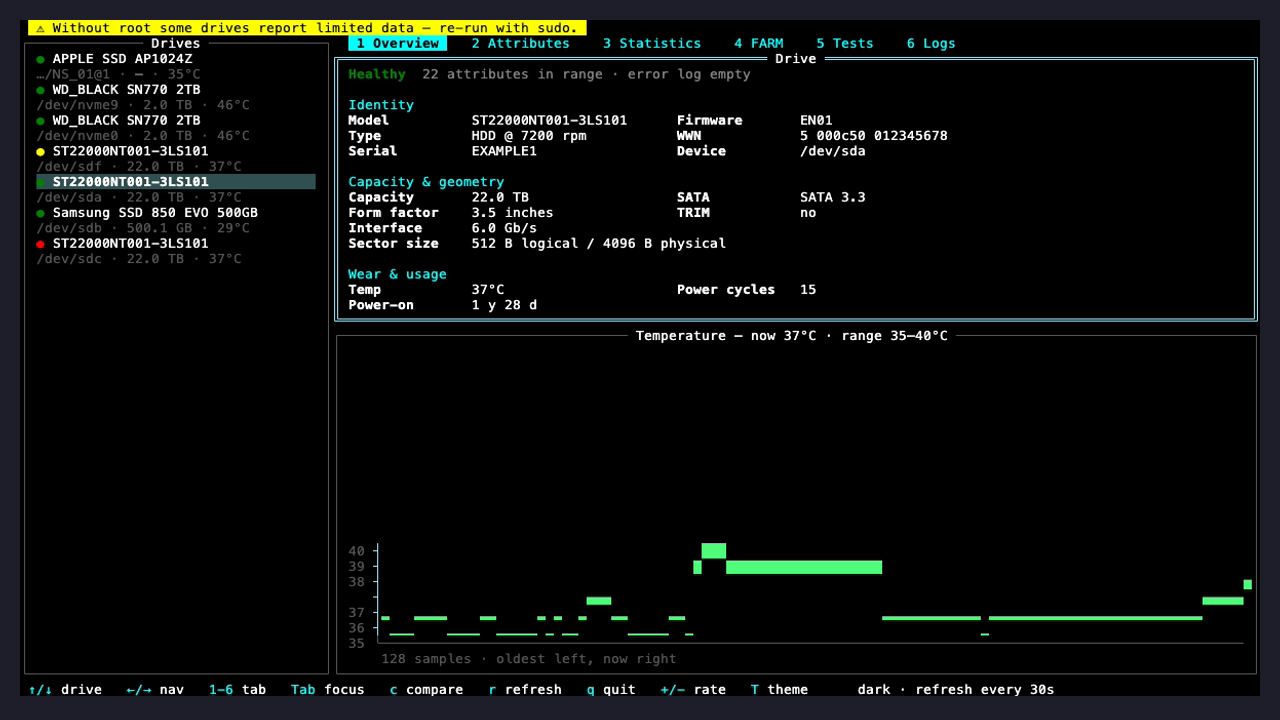
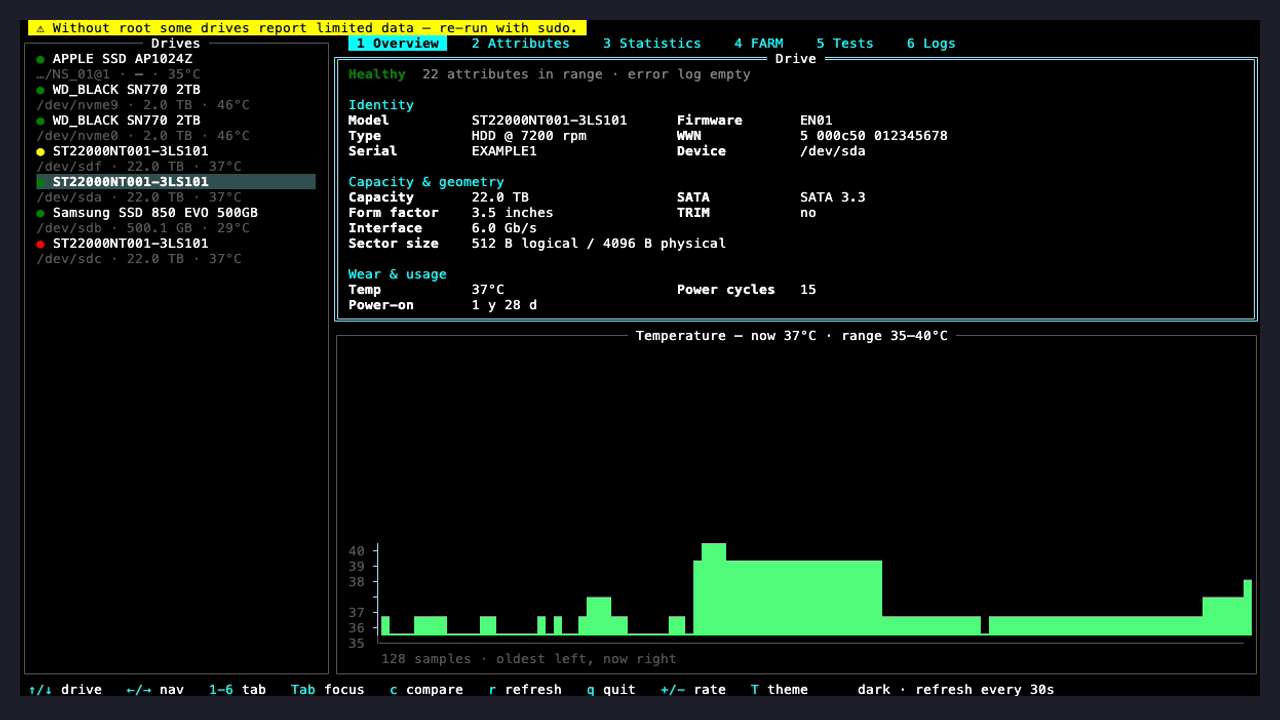
feat(ui): fill the temperature chart under the trace
A traced top edge left the reader joining single marks across the plot; the
filled area gives the series a shape that reads at a glance. The fill starts
at the data minimum, not zero, so it cannot become the zero-anchored solid
block that motivated tracing only the top edge in the first place.

seriesRows and barRows had the same column switch inline, so it moves out to
fillEighths/fillGlyph and both go through it: a column reads the same either
way, and the series inherits the bars' minimum-mark rule, so a sample sitting
exactly at the minimum still marks the baseline row instead of vanishing.

TestSeriesRowsTracesTopEdge pinned the old contract and is replaced by
TestSeriesRowsFillsUnderTheLine, which asserts the fill reaches the baseline
and leaves the rows above the value empty — the real guard against the solid
block. docs/images/overview.png is recaptured from the fixtures.

Claude-Session: https://claude.ai/code/session_01HP5vX5h9V6feNBNevqv9Ja

Changed region(s): [[0.2812, 0.7639, 1.0, 0.8861]]

diff --git a/internal/ui/chart.go b/internal/ui/chart.go
@@ -84,9 +84,34 @@ func bucketMax(data []float64, group int) []float64 {
 	return out
 }
 
-// seriesRows traces the TOP EDGE of the series scaled to [lo, hi] — a line,
-// not a filled area, which would reproduce the solid-block failure. Row 0 is
-// the top of the chart.
+// fillEighths scales v within [lo, hi] to a column height in eighths of a
+// cell. The range is the data's own, so the fill measures distance above the
+// series minimum, not above zero.
+func fillEighths(v, lo, hi float64, rows int) float64 {
+	frac := (v - lo) / (hi - lo)
+	frac = min(max(frac, 0), 1)
+	return frac * float64(rows) * 8
+}
+
+// fillGlyph is the glyph for row r of a column filled to eighths eighths from
+// the baseline; row rows-1 is the baseline. A column too short to draw still
+// gets a minimum mark there, or the smallest value reads as missing data.
+func fillGlyph(eighths float64, rows, r int) rune {
+	cell := eighths - float64((rows-1-r)*8) // this cell's fill, counting up from the baseline
+	switch {
+	case cell >= 8:
+		return '█'
+	case cell > 0:
+		return blockRamp[int(cell)]
+	case r == rows-1:
+		return blockRamp[0]
+	}
+	return ' '
+}
+
+// seriesRows plots the series scaled to [lo, hi] as an area filled under the
+// trace: the shape reads at a glance, and because the fill starts at the data
+// minimum it cannot become the zero-anchored solid block. Row 0 is the top.
 func seriesRows(data []float64, width, rows int, lo, hi float64) []string {
 	if width <= 0 || rows <= 0 {
 		return nil
@@ -100,15 +125,10 @@ func seriesRows(data []float64, width, rows int, lo, hi float64) []string {
 		if x >= width {
 			break
 		}
-		frac := (v - lo) / (hi - lo)
-		frac = min(max(frac, 0), 1)
-		eighths := frac * float64(rows) * 8
-		if eighths >= float64(rows*8) {
-			grid[0][x] = '█'
-			continue
+		eighths := fillEighths(v, lo, hi, rows)
+		for r := range rows {
+			grid[r][x] = fillGlyph(eighths, rows, r)
 		}
-		row := rows - 1 - int(eighths)/8
-		grid[row][x] = blockRamp[int(eighths)%8]
 	}
 	out := make([]string, rows)
 	for r, g := range grid {
@@ -126,24 +146,9 @@ func barRows(values []float64, barWidth, rows int, lo, hi float64) []string {
 	lo, hi = padRange(lo, hi)
 	cols := make([][]rune, rows)
 	for _, v := range values {
-		frac := (v - lo) / (hi - lo)
-		frac = min(max(frac, 0), 1)
-		eighths := frac * float64(rows) * 8
+		eighths := fillEighths(v, lo, hi, rows)
 		for r := range rows {
-			// This cell's fill in eighths, counting up from the baseline row.
-			cell := eighths - float64((rows-1-r)*8)
-			g := ' '
-			switch {
-			case cell >= 8:
-				g = '█'
-			case cell > 0:
-				g = blockRamp[int(cell)]
-			case r == rows-1:
-				// The smallest value would draw nothing and read as a missing
-				// category; give the baseline row a minimum mark.
-				g = blockRamp[0]
-			}
-			cols[r] = append(cols[r], g)
+			cols[r] = append(cols[r], fillGlyph(eighths, rows, r))
 			for range barWidth - 1 {
 				cols[r] = append(cols[r], ' ') // gap, so neighbours stay separate
 			}
@@ -177,13 +182,13 @@ func axisLabels(rows int, lo, hi float64) []string {
 }
 
 // rangeChart is a bordered chart that scales to its data rather than zero:
-// a traced series (setSeries) or categorical bars (setBars), with the
+// a filled series (setSeries) or categorical bars (setBars), with the
 // baseline value stated on the axis.
 type rangeChart struct {
 	*tview.Box
 	data    []float64
 	bars    bool
-	tick    int    // bar pitch in cells; 1 for a traced series
+	tick    int    // bar pitch in cells; 1 for a filled series
 	unit    string // appended to the axis labels and the range caption
 	caption string // one line under the axis: what the x axis is
 	// axis builds the caption for a bar chart instead of caption. The pitch and
@@ -199,7 +204,7 @@ func newRangeChart() *rangeChart {
 	return &rangeChart{Box: tview.NewBox(), tick: 1, color: activeTheme.BarHealthy}
 }
 
-// setSeries plots data as a traced line, downsampled to the available width.
+// setSeries plots data as a filled area, downsampled to the available width.
 func (c *rangeChart) setSeries(data []float64, unit, caption string) *rangeChart {
 	c.data, c.bars, c.tick, c.unit, c.caption = data, false, 1, unit, caption
 	return c

diff --git a/internal/ui/chart_test.go b/internal/ui/chart_test.go
@@ -41,18 +41,18 @@ func TestSeriesRowsScalesToRangeNotZero(t *testing.T) {
 	}
 }
 
-// TestSeriesRowsTracesTopEdge checks we draw a line, not a filled area: a single
-// sample must mark exactly one cell in one row, not a column down to the floor.
-func TestSeriesRowsTracesTopEdge(t *testing.T) {
-	rows := seriesRows([]float64{10}, 1, 4, 0, 10)
-	marked := 0
-	for _, r := range rows {
-		if strings.TrimSpace(r) != "" {
-			marked++
-		}
+// TestSeriesRowsFillsUnderTheLine: the area under the trace is filled so the
+// shape reads at a glance, and nothing is drawn above it — a column filled to
+// the top would be the old zero-anchored solid block.
+func TestSeriesRowsFillsUnderTheLine(t *testing.T) {
+	rows := seriesRows([]float64{5}, 1, 4, 0, 10)
+	if len(rows) != 4 {
+		t.Fatalf("got %d rows, want 4", len(rows))
 	}
-	if marked != 1 {
-		t.Errorf("want the top edge only (1 marked row), got %d:\n%s", marked, strings.Join(rows, "\n"))
+	for r, want := range []bool{false, false, true, true} {
+		if got := strings.TrimSpace(rows[r]) != ""; got != want {
+			t.Errorf("row %d filled=%v, want %v:\n%s", r, got, want, strings.Join(rows, "\n"))
+		}
 	}
 }
 

diff --git a/CLAUDE.md b/CLAUDE.md
@@ -324,10 +324,14 @@ goroutine (`setNarrow` in app.go is the pattern).
   Sparkline divides by the maximum and BarChart offers only `SetMaxValue` while
   drawing its own axis labels, so neither can take a baseline — a 35–40 °C
   history rendered as a solid block and 20 per-head resistances of 350–495 as
-  identical bars. `seriesRows` traces a line, `barRows` fills categorical bars,
-  `downsample` reduces by bucket *maximum* so a spike is never averaged away,
-  and the axis line always prints its baseline. The scaling is pure and unit
-  tested; the NVMe percentage gauges still use `tvxwidgets`, where 0–100 is real.
+  identical bars. `seriesRows` fills the area under the series and `barRows`
+  fills categorical bars — both through the same `fillEighths`/`fillGlyph`
+  pair, so a column reads the same either way and the smallest value keeps its
+  baseline mark instead of vanishing; the fill starts at the data minimum, not
+  at zero, which is what keeps a filled 35–40 °C history from going back to
+  being a solid block. `downsample` reduces by bucket *maximum* so a spike is
+  never averaged away, and the axis line always prints its baseline. The
+  scaling is pure and unit tested; the NVMe percentage gauges still use `tvxwidgets`, where 0–100 is real.
 - **A bar chart narrows its pitch before it drops a bar**
   (`rangeChart.barFit`). The pitch and the label step are chosen in `Draw`,
   not baked in with the data, because only `Draw` knows the plot width:
